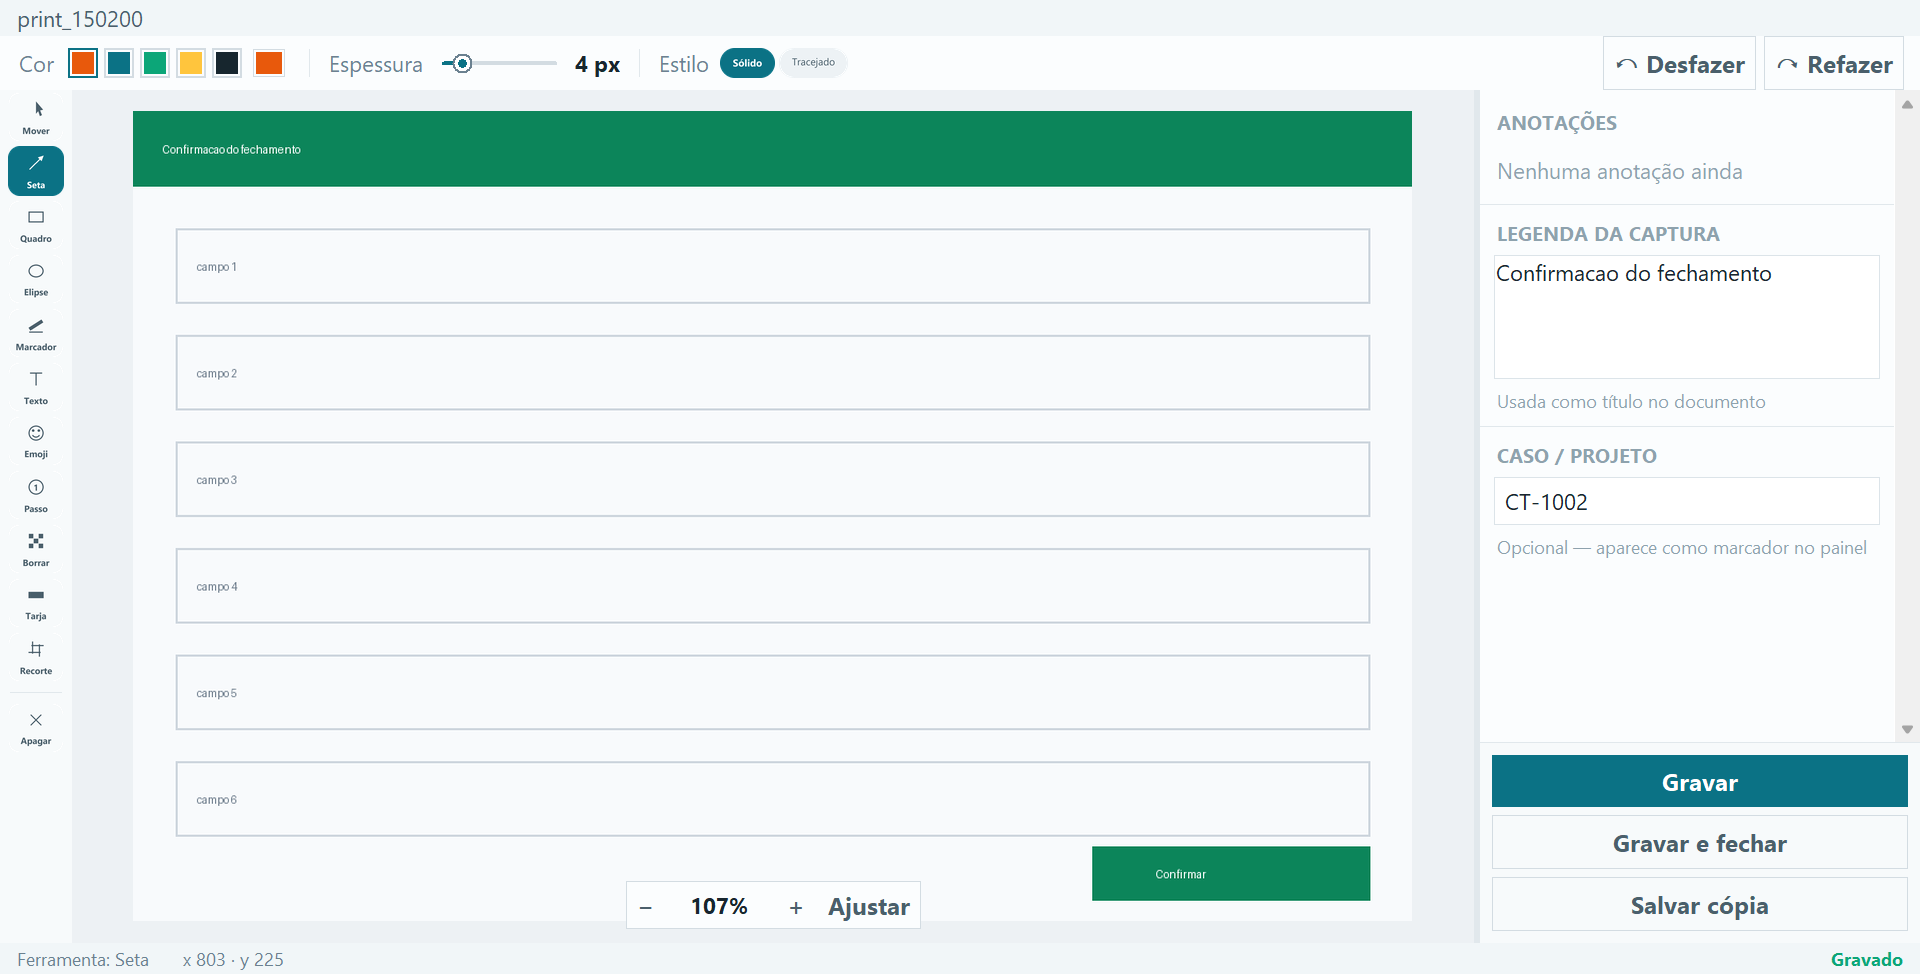
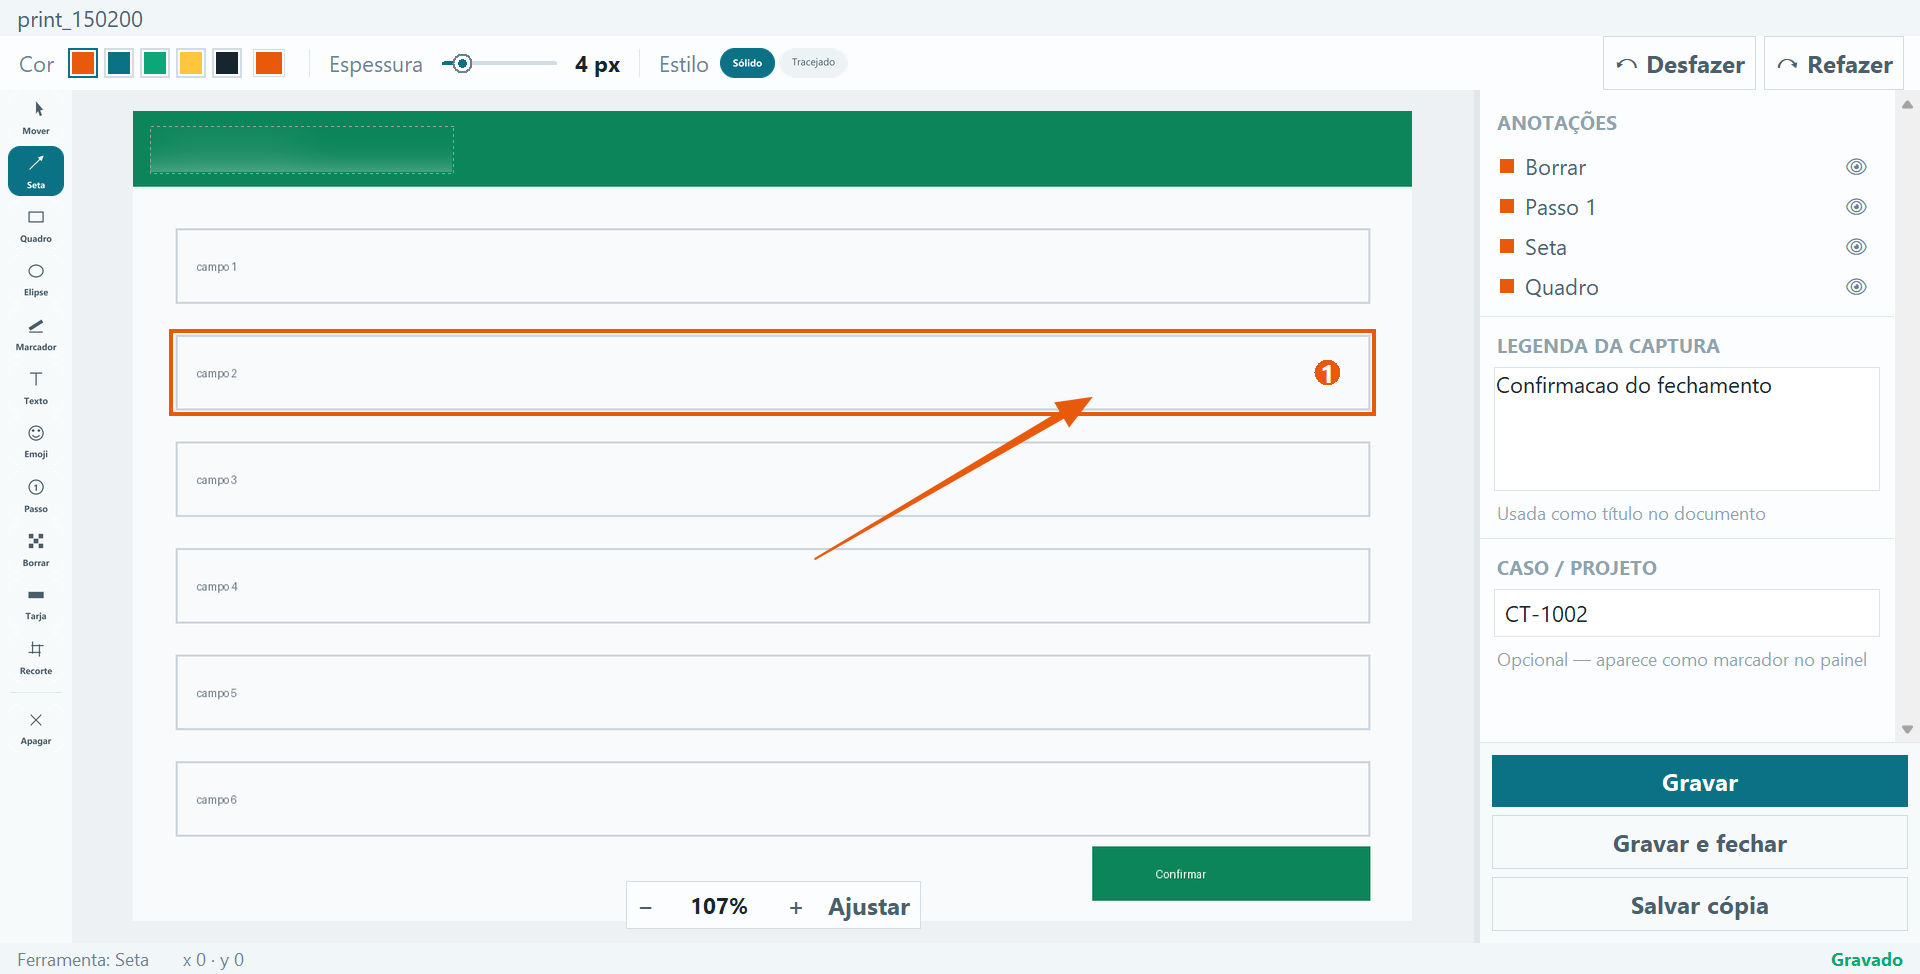
docs: imagem do editor no README mostra seta afinada, passo e desfoque

diff --git a/tests/ferramentas/telas_para_readme.py b/tests/ferramentas/telas_para_readme.py
@@ -26,6 +26,7 @@ from gestor.dados import capture_store
 from gestor.dados import config
 from gestor.ui import configuracoes
 from gestor.ui import document_builder
+from gestor.ui import editor
 from gestor.ui.workspace import AppEvidencias
 
 DESTINO = os.path.join(RAIZ, "docs", "images")
@@ -71,11 +72,31 @@ os.makedirs(capturas)
 amostras = [("Tela de login do sistema", (11, 114, 133)),
             ("Cadastro de competencia", (232, 89, 12)),
             ("Confirmacao do fechamento", (12, 133, 90))]
+# Anotações do print aberto no editor, para a imagem do README mostrar as
+# ferramentas como saem hoje (seta afinada, passo, quadro e desfoque).
+ANOTACOES = [
+    {"id": 1, "tool": "retangulo", "coords": [36, 206, 1164, 284], "color": "#E8590C",
+     "width": 4, "dash": False, "visible": True},
+    {"id": 2, "tool": "seta", "coords": [640, 420, 900, 268], "color": "#E8590C",
+     "width": 5, "dash": False, "visible": True, "estilo": editor.ESTILO_SETA},
+    {"id": 3, "tool": "passo", "coords": [1120, 245, 1120, 245], "color": "#E8590C",
+     "width": 4, "dash": False, "visible": True, "step_n": 1},
+    {"id": 4, "tool": "borrao", "coords": [16, 14, 300, 58], "color": "#E8590C",
+     "width": 5, "dash": False, "visible": True, "estilo": editor.ESTILO_BORRAO},
+]
+
 for i, (titulo, cor) in enumerate(amostras):
     caminho = os.path.join(capturas, "print_15%02d00.png" % i)
     captura_sintetica(caminho, titulo, cor)
+    formas = ANOTACOES if i == len(amostras) - 1 else []
+    if formas:
+        # original limpo no .raw.png e as anotações aplicadas no .png, como o
+        # editor grava
+        original = Image.open(caminho).convert("RGB")
+        original.save(caminho[:-4] + ".raw.png")
+        editor.render_composite(original, formas).save(caminho)
     capture_store.save_meta(caminho, {"caption": titulo, "caso": "CT-100%d" % i,
-                                      "shapes": []})
+                                      "shapes": formas})
 
 cfg = config.load(tmp)
 cfg["pasta_capturas"] = capturas
